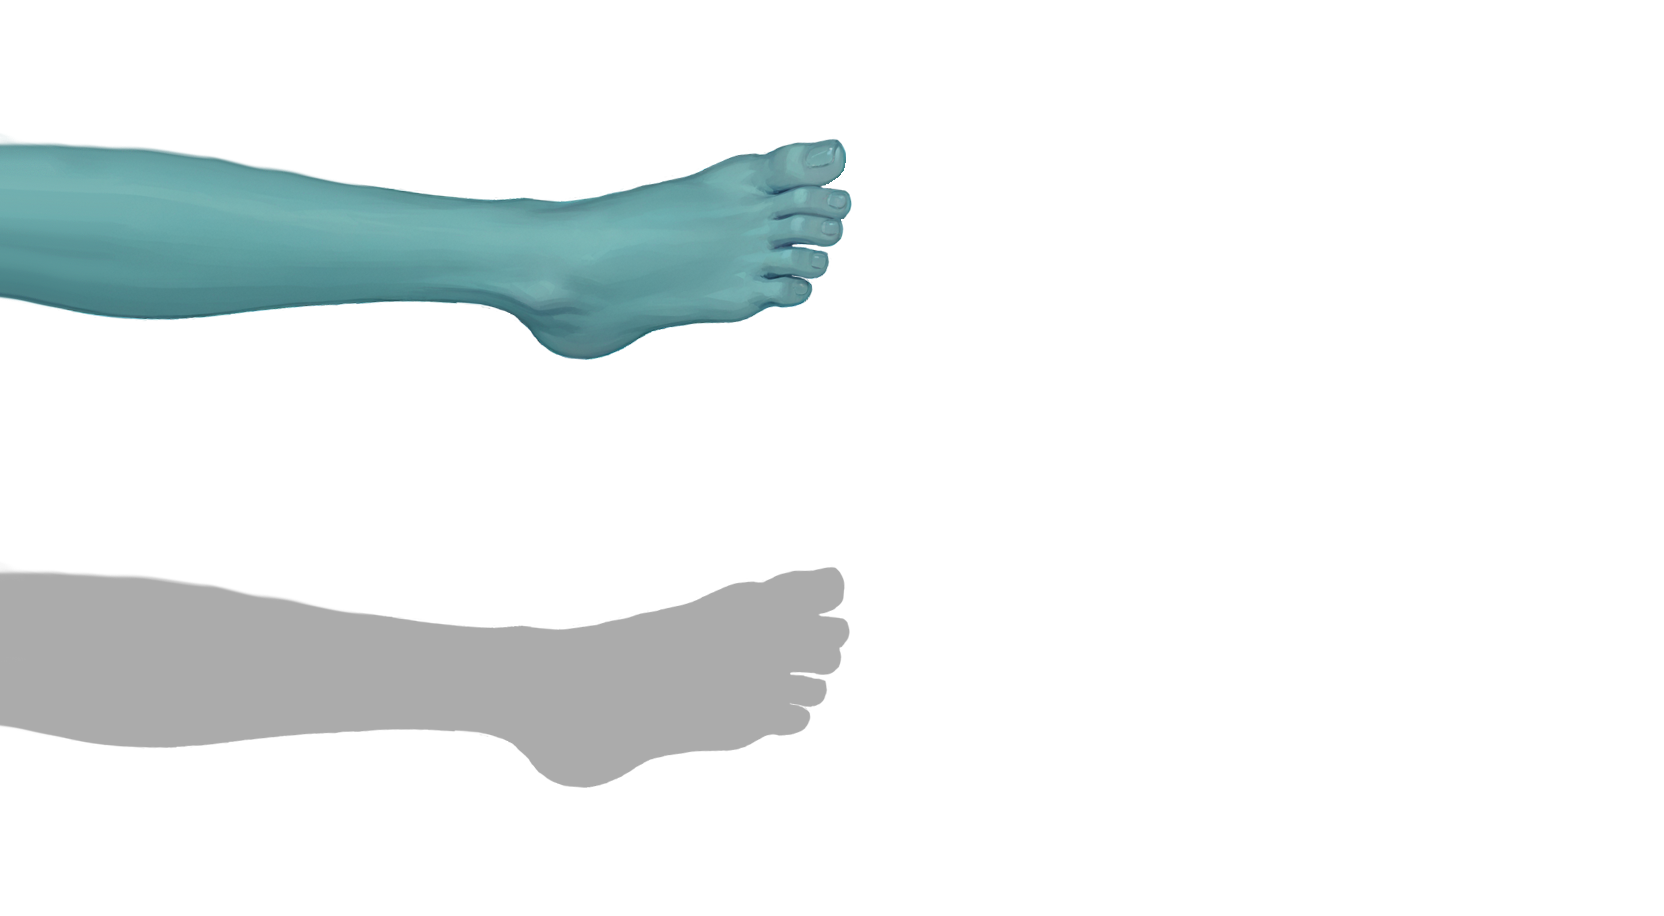
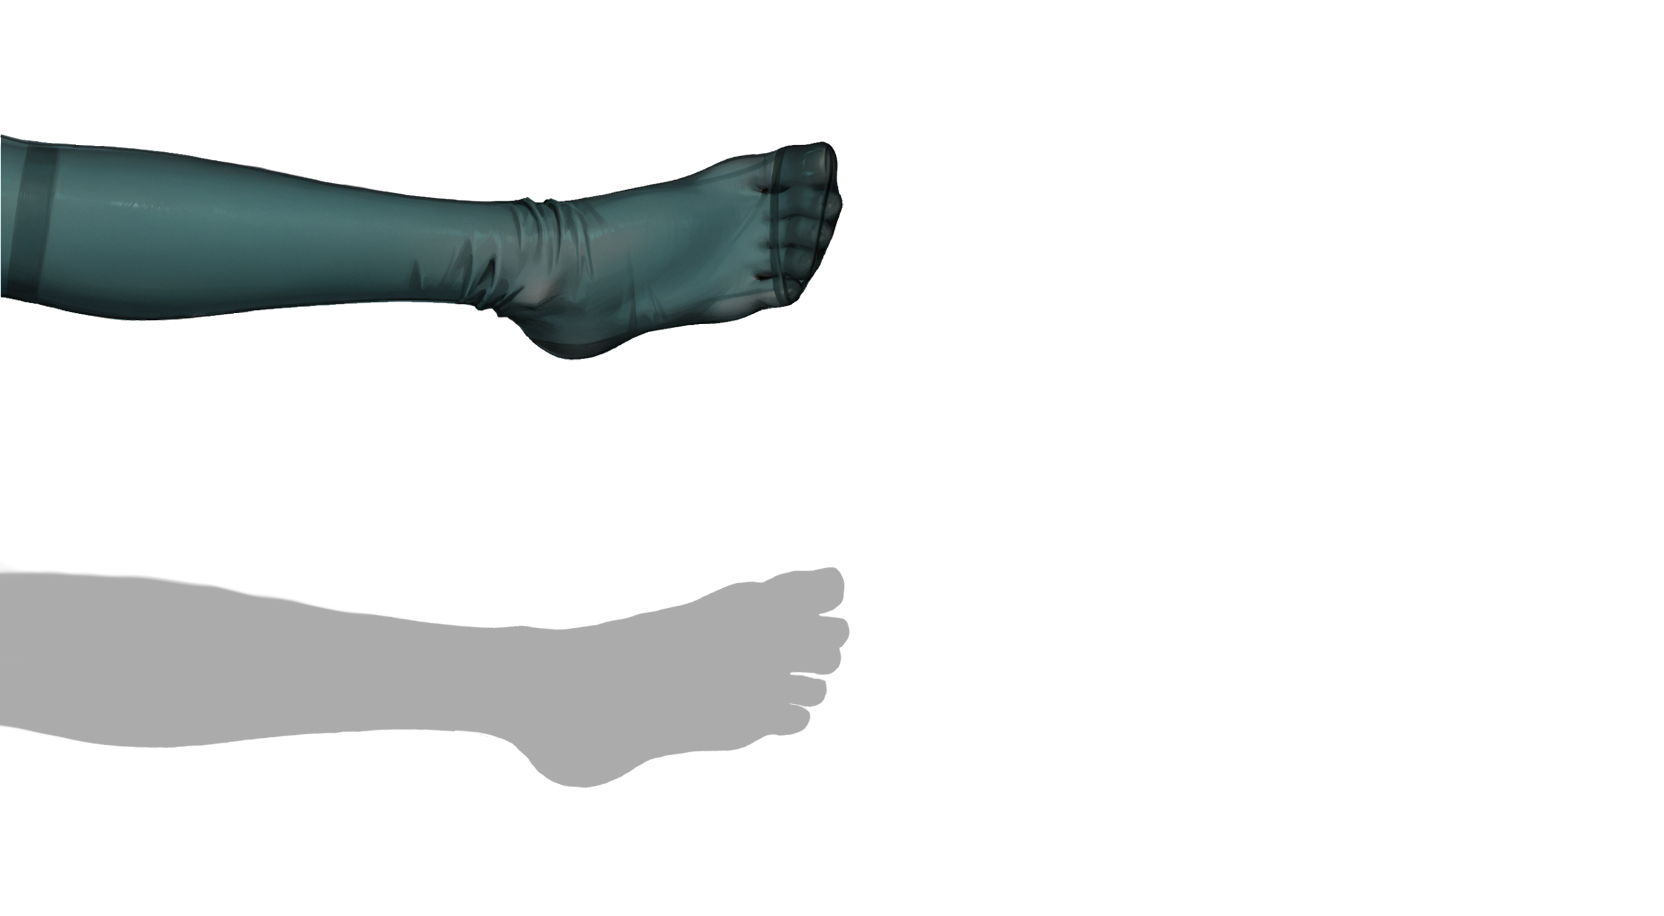
readme更新

Changed region(s): [[0.0, 0.1528, 0.5312, 0.3974]]

diff --git a/script/Merchant2CutePatcher.cs b/script/Merchant2CutePatcher.cs
@@ -93,7 +93,7 @@ public static class NMerchantHandPointAtTargetPatcher
 			if (value != null)
 			{
 				var currentTarget = (Vector2)value;
-				targetPosField.SetValue(__instance, currentTarget + new Vector2(0, 100f));
+				targetPosField.SetValue(__instance, currentTarget + new Vector2(0, 10f));
 				GD.Print("[Merchant2Cute] Adjusted y-axis in PointAtTarget");
 			}
 		}

diff --git a/README.md b/README.md
@@ -20,3 +20,7 @@
 > 目前没做假商人，动画太多了。
 >
 > 第一次做mod，闲的没事学着玩的，希望能给想做STS2mod的人提供部分参考。（虽然我也是新人>3）
+
+### 关于手部替换
+
+当然我是指根据网友的意见说的足部版本，有点不太想把图片贴到readme，总之有需求的自行下载看效果吧。
